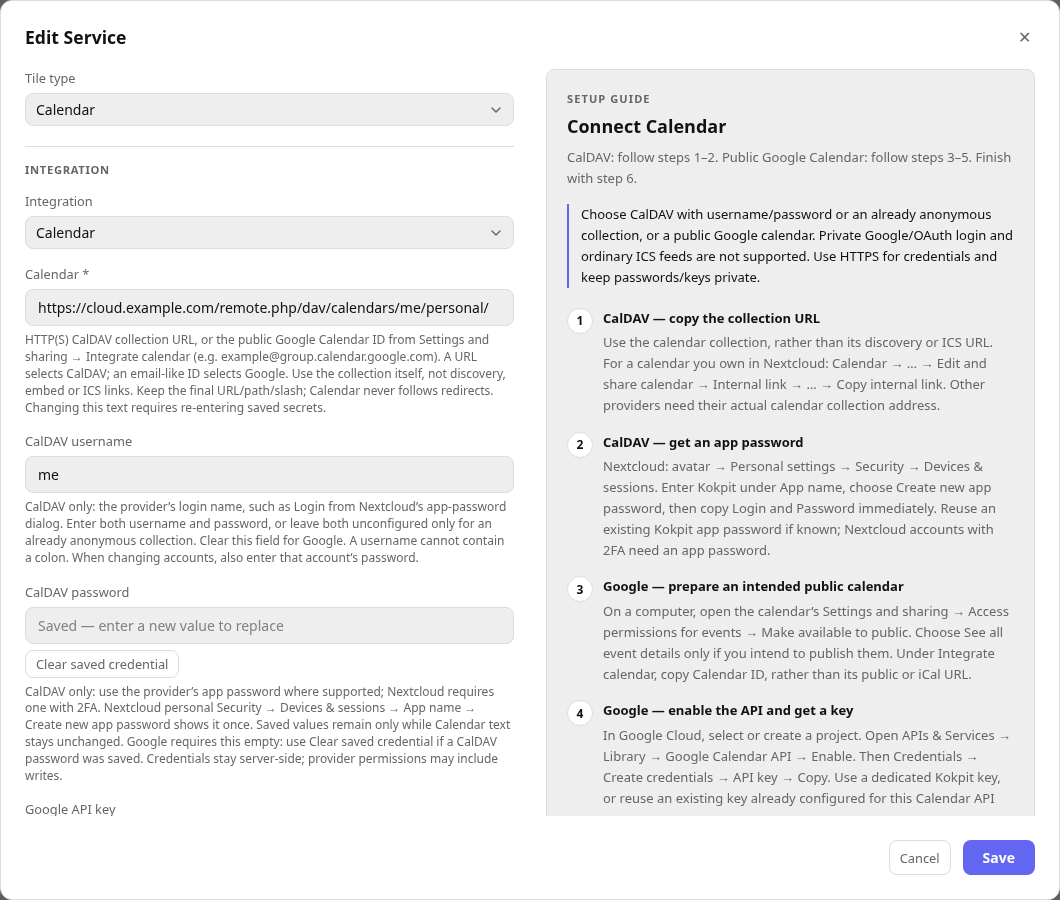
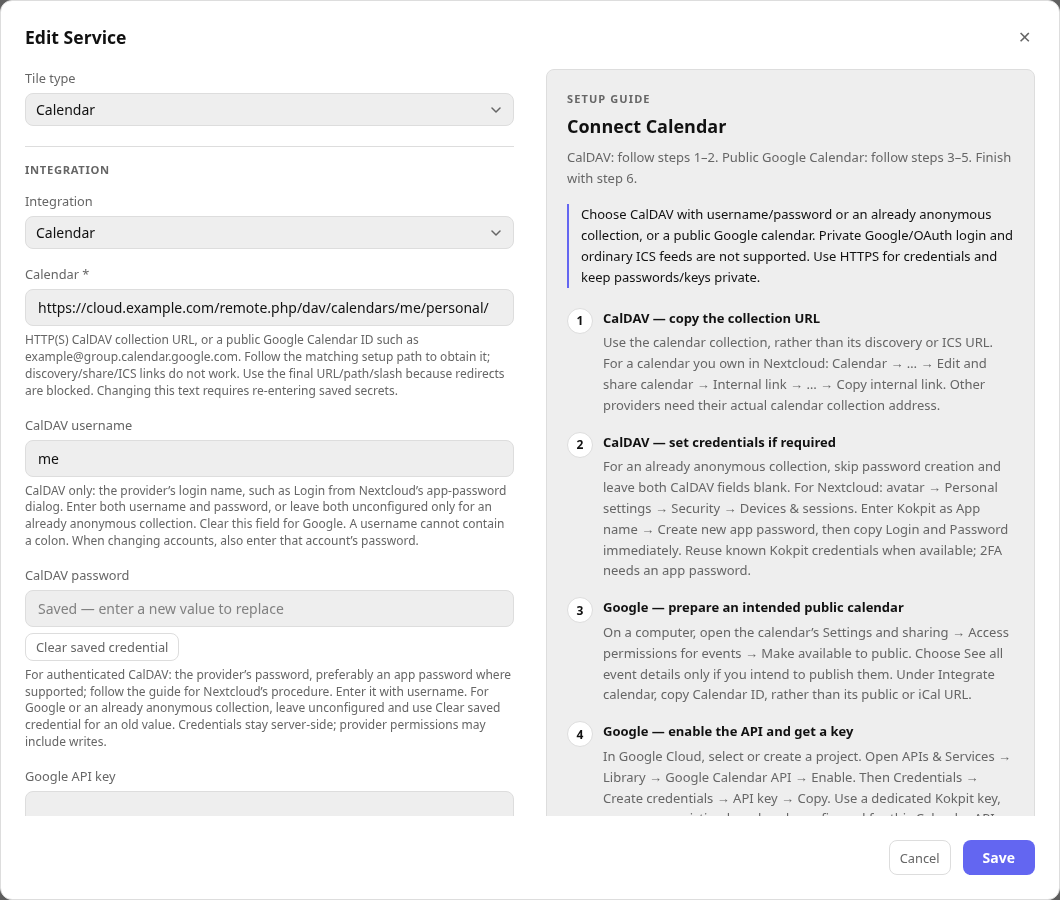
docs(calendar): clarify credential setup paths

Changed region(s): [[0.0311, 0.3733, 0.467, 0.9022], [0.5604, 0.4667, 0.934, 0.9022]]

diff --git a/src/integrations/calendar/setupGuide.ts b/src/integrations/calendar/setupGuide.ts
@@ -10,8 +10,8 @@ export const calendarSetupGuide: WidgetSetupGuide = {
       description: "Use the calendar collection, rather than its discovery or ICS URL. For a calendar you own in Nextcloud: Calendar → … → Edit and share calendar → Internal link → … → Copy internal link. Other providers need their actual calendar collection address.",
     },
     {
-      title: "CalDAV — get an app password",
-      description: "Nextcloud: avatar → Personal settings → Security → Devices & sessions. Enter Kokpit under App name, choose Create new app password, then copy Login and Password immediately. Reuse an existing Kokpit app password if known; Nextcloud accounts with 2FA need an app password.",
+      title: "CalDAV — set credentials if required",
+      description: "For an already anonymous collection, skip password creation and leave both CalDAV fields blank. For Nextcloud: avatar → Personal settings → Security → Devices & sessions. Enter Kokpit as App name → Create new app password, then copy Login and Password immediately. Reuse known Kokpit credentials when available; 2FA needs an app password.",
     },
     {
       title: "Google — prepare an intended public calendar",
@@ -27,7 +27,7 @@ export const calendarSetupGuide: WidgetSetupGuide = {
     },
     {
       title: "Enter matching fields, test and save",
-      description: "CalDAV: enter its collection URL and username/password; clear Google API key. Google: enter Calendar ID and key; clear both CalDAV fields. Choose days, limit and time zone. Use Test connection when enabled, wait for Connection OK, then save; otherwise save and check the dashboard. Clear unused saved secrets when switching paths.",
+      description: "CalDAV: enter its collection URL and required username/password, or leave both blank for an already anonymous collection; clear Google API key. Google: enter Calendar ID and key; clear both CalDAV fields. Choose days, limit and time zone. Test when enabled, wait for Connection OK, then save; otherwise save and check the dashboard. Use Clear saved credential for unused saved secrets.",
     },
   ],
   troubleshooting: [
@@ -37,19 +37,19 @@ export const calendarSetupGuide: WidgetSetupGuide = {
     },
     {
       title: "Finding the right Nextcloud collection",
-      description: "For an owned calendar, open … → Edit and share calendar, then the action next to Internal link → Copy internal link. A typical result is https://cloud.example.com/remote.php/dav/calendars/me/personal/. Keep the exact path and final slash. Copy public link opens a sharing page; Copy subscription link/Export gives a feed or download. A general /remote.php/dav or account URL needs discovery, which Kokpit does not perform. Incoming shared/delegated calendars can hide the Internal link control: obtain that account’s actual collection URL through the provider’s CalDAV client/discovery tools instead of guessing a path.",
+      description: "Use the Internal link procedure in the CalDAV setup path for an owned calendar. A typical result is https://cloud.example.com/remote.php/dav/calendars/me/personal/. Keep the exact path and final slash. Copy public link opens a sharing page; Copy subscription link/Export gives a feed or download. A general /remote.php/dav or account URL needs discovery, which Kokpit does not perform. Incoming shared/delegated calendars can hide the Internal link control: obtain that account’s actual collection URL through the provider’s CalDAV client/discovery tools instead of guessing a path.",
     },
     {
       title: "Nextcloud app passwords or CalDAV 401/403",
-      description: "Create a dedicated Kokpit app password under personal Security → Devices & sessions, or reuse your known Kokpit value. Copy the dialog’s Login and Password immediately: the password is shown once. Use Login as CalDAV username, rather than a display name. With 2FA, the normal account password is rejected by CalDAV clients. Other providers have their own app-password/login procedure. Read access to the collection is required; these credentials can have broader provider permissions even though Kokpit only reads. If changing accounts, replace the password too; usernames cannot contain a colon.",
+      description: "Use the credential procedure in the CalDAV setup path, or reuse your known Kokpit app password. Copy the dialog’s Login and Password immediately: the password is shown once. Use Login as CalDAV username, rather than a display name. With 2FA, the normal account password is rejected by Nextcloud’s CalDAV clients. Other providers have their own app-password/login procedure. Read access to the collection is required; these credentials can have broader provider permissions even though Kokpit only reads. If changing accounts, replace the password too; usernames cannot contain a colon.",
     },
     {
       title: "Google 403/404 or private/missing event details",
-      description: "Check Calendar ID under that calendar’s Settings and sharing → Integrate calendar, not an event ID or URL. Verify intentional public sharing and the desired event-detail visibility. Google Workspace administrators can restrict public sharing. The API key identifies a Cloud project and quota; it does not sign in as a Google user or make a calendar private. A key cannot grant access to a private Google calendar. Confirm Google Calendar API is enabled in the same project as the key and allow time for permission/restriction changes to take effect.",
+      description: "Check the copied Calendar ID using the Google setup path, not an event ID or URL. Verify intentional public sharing and the desired event-detail visibility. Google Workspace administrators can restrict public sharing. The API key identifies a Cloud project and quota; it does not sign in as a Google user or make a calendar private. A key cannot grant access to a private Google calendar. Confirm Google Calendar API is enabled in the same project as the key and allow time for permission/restriction changes to take effect.",
     },
     {
       title: "Google key restrictions or quota errors",
-      description: "Use API restrictions → Restrict key → Google Calendar API. For application IP restrictions, enter the public outbound address Google sees for the Kokpit server, including applicable IPv4/IPv6 or VPN/NAT egress; your browser or Docker/LAN address is usually different. Website referrers and mobile-app restrictions do not match these server-side calls. Use a dedicated key instead of narrowing a key shared with unrelated APIs. Keep the key private and update IP restrictions if egress changes. For 429/quota errors, wait for the limit to clear and consider a longer refresh interval; the default is five minutes.",
+      description: "Confirm the Calendar API restriction described in the Google setup path. For application IP restrictions, enter the public outbound address Google sees for the Kokpit server, including applicable IPv4/IPv6 or VPN/NAT egress; your browser or Docker/LAN address is usually different. Website referrers and mobile-app restrictions do not match these server-side calls. Use a dedicated key instead of narrowing a key shared with unrelated APIs. Keep the key private and update IP restrictions if egress changes. For 429/quota errors, wait for the limit to clear and consider a longer refresh interval; the default is five minutes.",
     },
     {
       title: "Calendar works in a browser but not in Kokpit",

diff --git a/src/integrations/calendar/widget.tsx b/src/integrations/calendar/widget.tsx
@@ -37,10 +37,10 @@ export function CalendarWidget({ data, loading, error, footprint }: WidgetProps<
   </WidgetBody>;
 }
 const CONNECTION: WidgetConfigField[] = [
-  { key: "calendar", label: "Calendar", type: "text", required: true, placeholder: "https://cloud.example.com/remote.php/dav/calendars/me/personal/", description: "HTTP(S) CalDAV collection URL, or the public Google Calendar ID from Settings and sharing → Integrate calendar (e.g. example@group.calendar.google.com). A URL selects CalDAV; an email-like ID selects Google. Use the collection itself, not discovery, embed or ICS links. Keep the final URL/path/slash; Calendar never follows redirects. Changing this text requires re-entering saved secrets." },
+  { key: "calendar", label: "Calendar", type: "text", required: true, placeholder: "https://cloud.example.com/remote.php/dav/calendars/me/personal/", description: "HTTP(S) CalDAV collection URL, or a public Google Calendar ID such as example@group.calendar.google.com. Follow the matching setup path to obtain it; discovery/share/ICS links do not work. Use the final URL/path/slash because redirects are blocked. Changing this text requires re-entering saved secrets." },
   { key: "username", label: "CalDAV username", type: "text", description: "CalDAV only: the provider’s login name, such as Login from Nextcloud’s app-password dialog. Enter both username and password, or leave both unconfigured only for an already anonymous collection. Clear this field for Google. A username cannot contain a colon. When changing accounts, also enter that account’s password." },
-  { key: "password", label: "CalDAV password", type: "password", description: "CalDAV only: use the provider’s app password where supported; Nextcloud requires one with 2FA. Nextcloud personal Security → Devices & sessions → App name → Create new app password shows it once. Saved values remain only while Calendar text stays unchanged. Google requires this empty: use Clear saved credential if a CalDAV password was saved. Credentials stay server-side; provider permissions may include writes." },
-  { key: "api_key", label: "Google API key", type: "password", description: "Required for a public Google ID. In the Cloud project, enable Google Calendar API, then APIs & Services → Credentials → Create credentials → API key → Copy. Restrict a dedicated key to Google Calendar API and, when available, Kokpit’s fixed public egress IPs. HTTP-referrer restrictions do not work for server requests. Paste the key string, not OAuth/service-account JSON. Retained only for unchanged Calendar text; clear any saved key for CalDAV." },
+  { key: "password", label: "CalDAV password", type: "password", description: "For authenticated CalDAV: the provider’s password, preferably an app password where supported; follow the guide for Nextcloud’s procedure. Enter it with username. For Google or an already anonymous collection, leave unconfigured and use Clear saved credential for an old value. Credentials stay server-side; provider permissions may include writes." },
+  { key: "api_key", label: "Google API key", type: "password", description: "Required for a public Google ID. Follow the Google setup path for API enablement, key creation and server-compatible restrictions. Paste the key string, not OAuth/service-account JSON. Leave unconfigured for CalDAV, using Clear saved credential for an old saved key. Saved-secret scope is described under Calendar above." },
 ];
 const OPTIONS: Exclude<WidgetConfigField, { type: "password" }>[] = [
   { key: "days_ahead", label: "Days ahead", type: "number", defaultValue: 7, description: "Rolling upcoming window, 1–30 days; default 7. Starts at the last fetch and extends by that many 24-hour periods. Includes events already in progress; events that ended earlier today are excluded. This does not select a calendar month or start at midnight." },

diff --git a/docs/integration-setup-guidance-proposal.md b/docs/integration-setup-guidance-proposal.md
@@ -269,7 +269,7 @@ Checked 23 October 2026 against Actual’s official [API setup](https://actualbu
 
 ### Calendar documentation and implementation evidence
 
-Checked 23 October 2026 against Nextcloud’s [calendar](https://docs.nextcloud.com/server/stable/user_manual/en/groupware/calendar.html), [device/app-password](https://docs.nextcloud.com/server/stable/user_manual/en/session_management.html) and [CalDAV-client authentication](https://docs.nextcloud.com/server/stable/user_manual/en/groupware/sync_android.html) guides, plus Google’s [public sharing](https://support.google.com/calendar/answer/37083), [Calendar ID lookup](https://support.google.com/calendar/answer/44105), [API enablement](https://developers.google.com/workspace/guides/enable-apis), [API-key credentials](https://developers.google.com/workspace/guides/create-credentials), [key management/restrictions](https://docs.cloud.google.com/docs/authentication/api-keys) and [events.list reference](https://developers.google.com/workspace/calendar/api/v3/reference/events/list). One guide explicitly marks the two alternative paths; its documentation link opens the Kokpit Calendar reference containing primary links for both providers.
+Checked 23 October 2026 against Nextcloud’s [calendar](https://docs.nextcloud.com/server/stable/user_manual/en/groupware/calendar.html), [device/app-password](https://docs.nextcloud.com/server/stable/user_manual/en/session_management.html) and [CalDAV-client authentication](https://docs.nextcloud.com/server/stable/user_manual/en/groupware/sync_android.html) guides, plus Google’s [public sharing](https://support.google.com/calendar/answer/37083), [Calendar ID lookup](https://support.google.com/calendar/answer/44105), [API enablement](https://developers.google.com/workspace/guides/enable-apis), [API-key credentials](https://developers.google.com/workspace/guides/create-credentials), [key management/restrictions](https://docs.cloud.google.com/docs/authentication/api-keys) and [events.list reference](https://developers.google.com/workspace/calendar/api/v3/reference/events/list). One guide explicitly marks the two alternative paths, including skipping credentials for an already anonymous CalDAV collection. Field descriptions explain values/conditions and refer to the canonical provider steps. The documentation link opens the Kokpit Calendar reference containing primary links for both providers.
 
 - **Correct Nextcloud collection action:** checked tagged Calendar [6.6.3](https://github.com/nextcloud/calendar/tree/v6.6.3), whose [manifest](https://github.com/nextcloud/calendar/blob/v6.6.3/appinfo/info.xml) supports Nextcloud 32–35. For an owned calendar, [CalendarListItem](https://github.com/nextcloud/calendar/blob/v6.6.3/src/components/AppNavigation/CalendarList/CalendarListItem.vue) opens **Edit and share calendar**; [EditCalendarModal](https://github.com/nextcloud/calendar/blob/v6.6.3/src/components/AppNavigation/EditCalendarModal.vue) places **Internal link** in its sharing section; [InternalLink](https://github.com/nextcloud/calendar/blob/v6.6.3/src/components/AppNavigation/EditCalendarModal/InternalLink.vue) exposes **Copy internal link** and copies the calendar’s DAV collection URL. This differs from **Copy public link**, which copies an app sharing page, and **Copy subscription link**, which adds `?export`. Incoming shared/delegated calendars can hide the Internal link control, so the guide directs those users to their provider’s CalDAV client/discovery tools. Kokpit itself does not discover collections or accept ordinary ICS feeds.
 - **Nextcloud credentials:** stable [Nextcloud 35’s token section](https://github.com/nextcloud/server/blob/stable35/apps/settings/src/components/AuthTokenSection.vue), [setup form](https://github.com/nextcloud/server/blob/stable35/apps/settings/src/components/AuthTokenSetup.vue) and [one-time dialog](https://github.com/nextcloud/server/blob/stable35/apps/settings/src/components/AuthTokenSetupDialog.vue) verify Devices & sessions → App name → Create new app password and the dialog’s Login/Password. The official manual confirms one-time visibility and the app-password requirement with 2FA. Known Kokpit credentials can be reused; the guide does not recommend disabling authentication or claim a read-only app-password scope.

diff --git a/README.md b/README.md
@@ -742,6 +742,8 @@ Add/Edit Service includes one numbered guide with clearly marked CalDAV and publ
 
 **CalDAV setup (Nextcloud example):**
 
+For a collection already allowing anonymous REPORT, skip credential creation and leave both CalDAV fields blank. Do not turn off authentication to make this possible. Nextcloud personal collections normally use the authenticated steps below.
+
 1. For a calendar you own in Nextcloud, open **Calendar → … → Edit and share calendar → Internal link → … → Copy internal link**. Use the actual collection URL, normally ending in `/remote.php/dav/calendars/<login>/<calendar>/`, including its exact path and final slash. **Copy public link** gives a sharing page; **Copy subscription link** and Export give a feed/download. A general `/remote.php/dav` or account URL requires discovery, which Kokpit does not perform. Incoming shared/delegated calendars can hide the Internal link control; obtain that account’s actual collection URL through the provider’s CalDAV client/discovery tools rather than guessing.
 2. Open **avatar → Personal settings → Security → Devices & sessions**. Enter **Kokpit** as **App name**, select **Create new app password**, and copy the dialog’s **Login** and **Password** immediately. Reuse a known existing Kokpit app password when appropriate. Nextcloud shows the generated password once, and accounts with 2FA require an app password for these clients.
 3. Enter the collection URL as **Calendar**, the supplied Login as **CalDAV username** and the app password as **CalDAV password**. Leave **Google API key** unconfigured. Other CalDAV providers have their own collection/app-password procedure; Kokpit supports Basic username/password authentication, or both fields blank for a collection already allowing anonymous REPORT. Do not disable provider authentication to connect.
